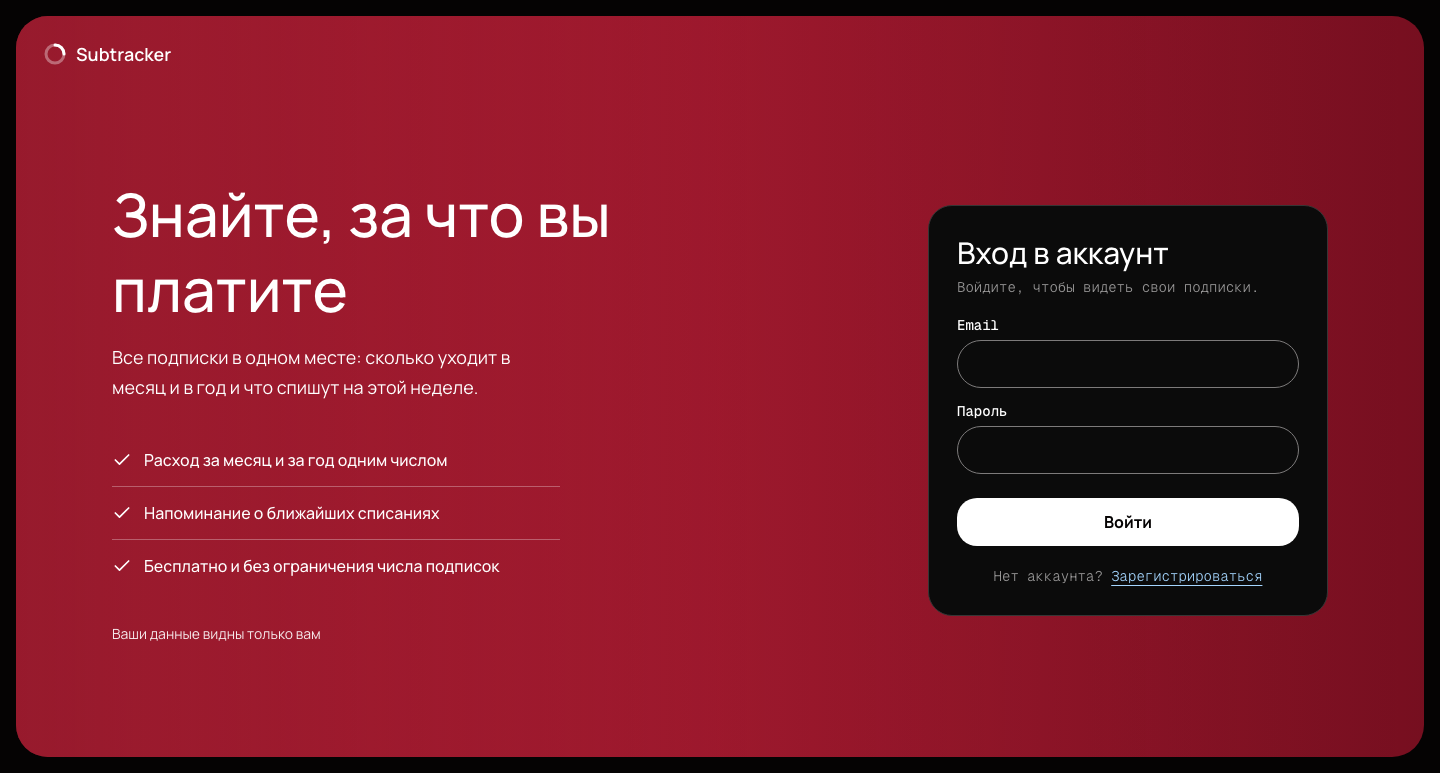
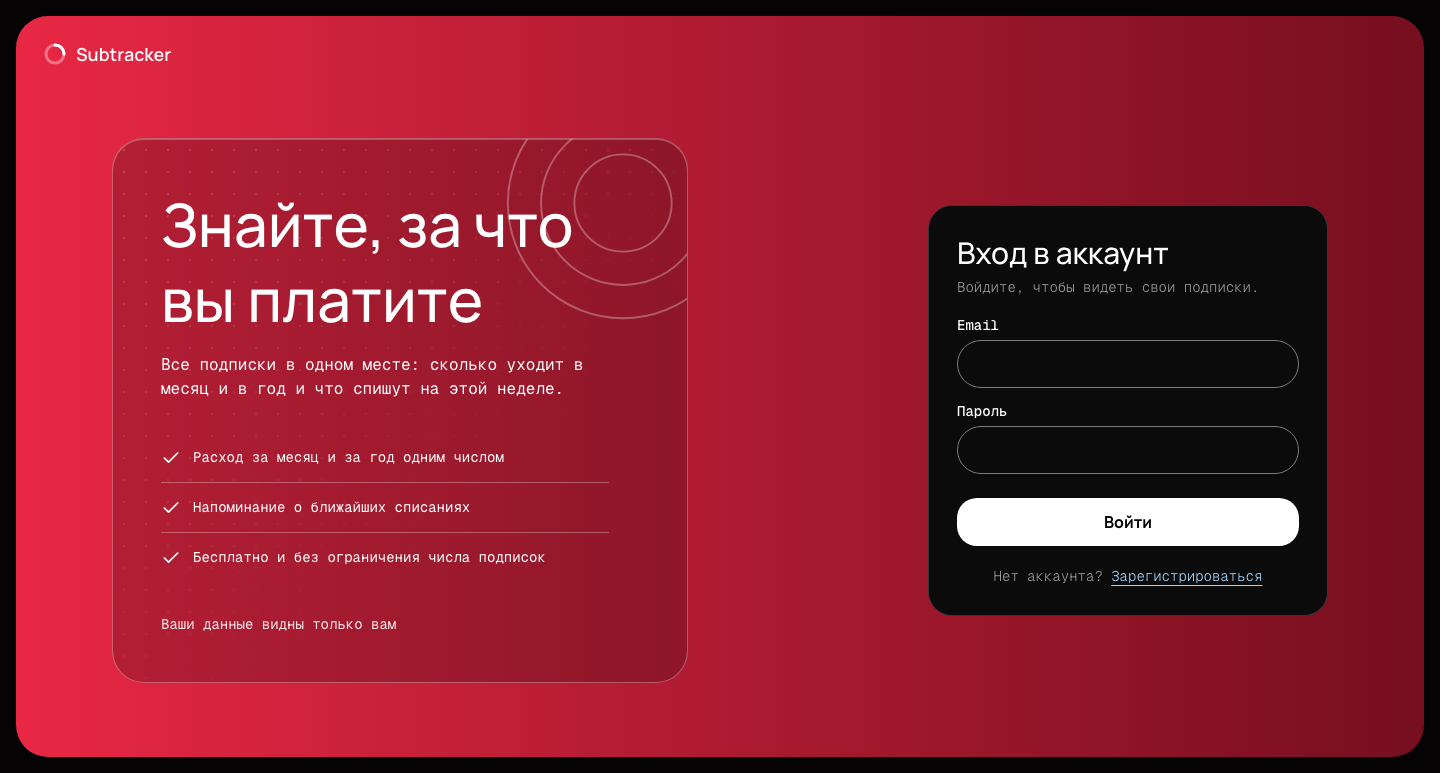
Restore bright glow and put the intro text into a patterned frame

Changed region(s): [[0.0, 0.0, 0.4688, 0.9935]]

diff --git a/frontend/src/components/AuthLayout.tsx b/frontend/src/components/AuthLayout.tsx
@@ -10,24 +10,36 @@ export function AuthLayout({ children }: { children: ReactNode }) {
   return (
     <main className="min-h-dvh p-3 sm:p-4">
       <div className="glow-frame relative flex min-h-[calc(100dvh-1.5rem)] items-center justify-center rounded-[var(--radius-card)] px-4 pt-20 pb-8 sm:min-h-[calc(100dvh-2rem)] sm:rounded-[var(--radius-frame)] lg:justify-between lg:gap-16 lg:px-16 xl:px-24">
-        <div aria-hidden="true" className="pointer-events-none absolute inset-0 hidden rounded-[inherit] bg-gradient-to-r from-black/35 via-black/10 to-transparent lg:block" />
         <Logo onGlow className="absolute top-6 left-6 sm:left-7" />
-        <section aria-label="О сервисе" className="relative hidden max-w-xl flex-1 flex-col gap-8 text-white lg:flex">
-          <div className="flex flex-col gap-4">
-            <p className="font-sans text-5xl leading-tight font-medium xl:text-6xl">Знайте, за что вы платите</p>
-            <p className="max-w-md font-sans text-lg leading-relaxed text-white">Все подписки в одном месте: сколько уходит в месяц и в год и что спишут на этой неделе.</p>
+        <section aria-label="О сервисе" className="relative hidden max-w-xl flex-1 lg:block">
+          <div className="relative flex flex-col gap-8 overflow-hidden rounded-[var(--radius-frame)] border border-white/30 bg-black/20 p-10 text-white shadow-[inset_0_1px_0_0_rgba(255,255,255,0.25)] xl:p-12">
+            {/* узор: точечная сетка и кольца в углу, как знак логотипа */}
+            <div
+              aria-hidden="true"
+              className="pointer-events-none absolute inset-0 opacity-60 [background-image:radial-gradient(rgba(255,255,255,0.28)_1px,transparent_1px)] [background-size:22px_22px] [mask-image:linear-gradient(to_bottom_right,black,transparent_70%)]"
+            />
+            <svg aria-hidden="true" viewBox="0 0 200 200" className="pointer-events-none absolute -top-16 -right-16 size-64 text-white/30" fill="none" stroke="currentColor" strokeWidth="1.5">
+              <circle cx="100" cy="100" r="90" />
+              <circle cx="100" cy="100" r="64" />
+              <circle cx="100" cy="100" r="38" />
+              <path d="M100 10 A90 90 0 0 1 190 100" stroke="white" strokeWidth="4" strokeLinecap="round" />
+            </svg>
+            <div className="relative flex flex-col gap-4">
+              <p className="font-sans text-5xl leading-tight font-medium xl:text-6xl">Знайте, за что вы платите</p>
+              <p className="max-w-md text-base text-white">Все подписки в одном месте: сколько уходит в месяц и в год и что спишут на этой неделе.</p>
+            </div>
+            <ul className="relative flex max-w-md flex-col">
+              {POINTS.map((point) => (
+                <li key={point} className="flex items-center gap-3 border-t border-white/30 py-3.5 first:border-t-0">
+                  <Check aria-hidden="true" className="size-5 shrink-0" />
+                  {point}
+                </li>
+              ))}
+            </ul>
+            <p className="relative text-sm text-white/90">Ваши данные видны только вам</p>
           </div>
-          <ul className="flex max-w-md flex-col">
-            {POINTS.map((point) => (
-              <li key={point} className="flex items-center gap-3 border-t border-white/30 py-3.5 font-sans text-base font-medium first:border-t-0">
-                <Check aria-hidden="true" className="size-5 shrink-0" />
-                {point}
-              </li>
-            ))}
-          </ul>
-          <p className="font-sans text-sm text-white/90">Ваши данные видны только вам</p>
         </section>
-        <Card className="relative w-full max-w-[400px] gap-0 p-6 sm:p-7">{children}</Card>
+        <Card className="w-full max-w-[400px] gap-0 p-6 sm:p-7">{children}</Card>
       </div>
     </main>
   )

diff --git a/frontend/spec.md b/frontend/spec.md
@@ -33,7 +33,7 @@
 2.3. При ответе 401 над кнопкой сообщение «Неверный email или пароль. Нет аккаунта? Зарегистрируйтесь» (со ссылкой на регистрацию). Сервер не отличает неизвестный email от неверного пароля, поэтому сообщение одно. Введённые значения остаются, пользователь может исправить и отправить снова.
 2.4. При сетевой ошибке или 5xx сообщение «Не удалось связаться с сервером. Повторите попытку», значения остаются.
 2.5. При успехе токены сохраняются, пользователь попадает на `/subscriptions`.
-2.6. Оформление экранов входа и регистрации: на ширине от 1024 px слева от карточки блок о сервисе (заголовок, короткое описание, три пункта, строка о приватности), чисто декоративный; на более узком экране он скрыт.
+2.6. Оформление экранов входа и регистрации: на ширине от 1024 px слева от карточки блок о сервисе в рамке с узором (заголовок, короткое описание, три пункта, строка о приватности), чисто декоративный; на более узком экране он скрыт.
 
 ## 3. Регистрация (`POST /api/auth/register`, затем вход)
 
